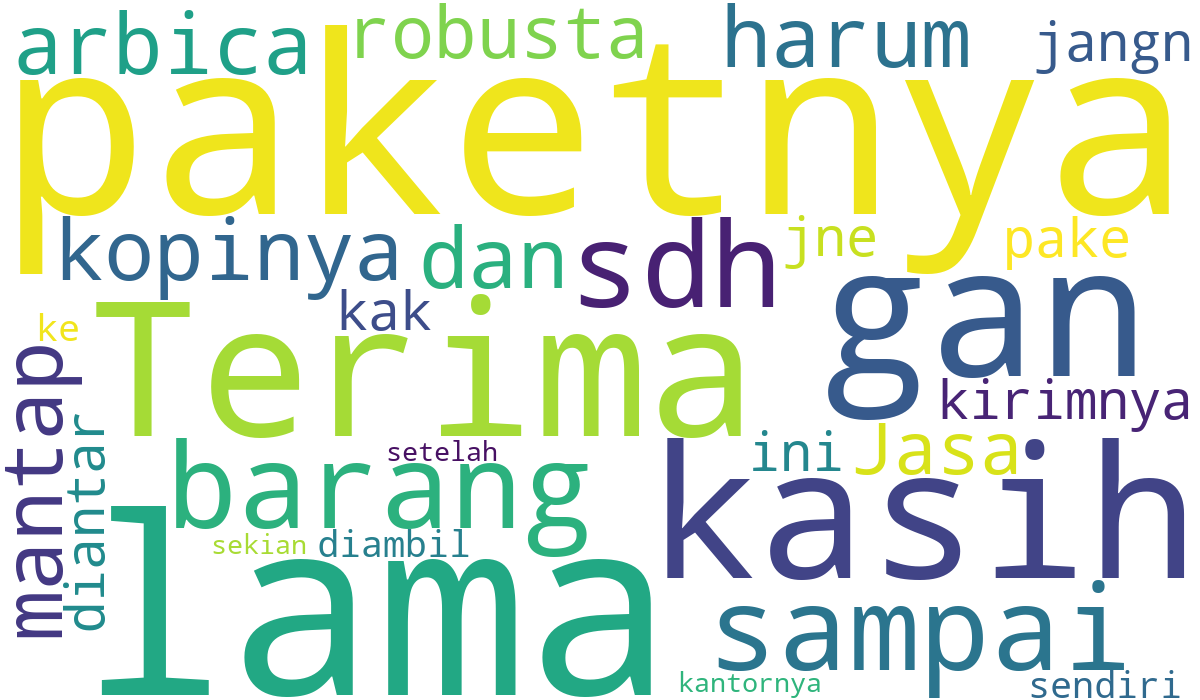
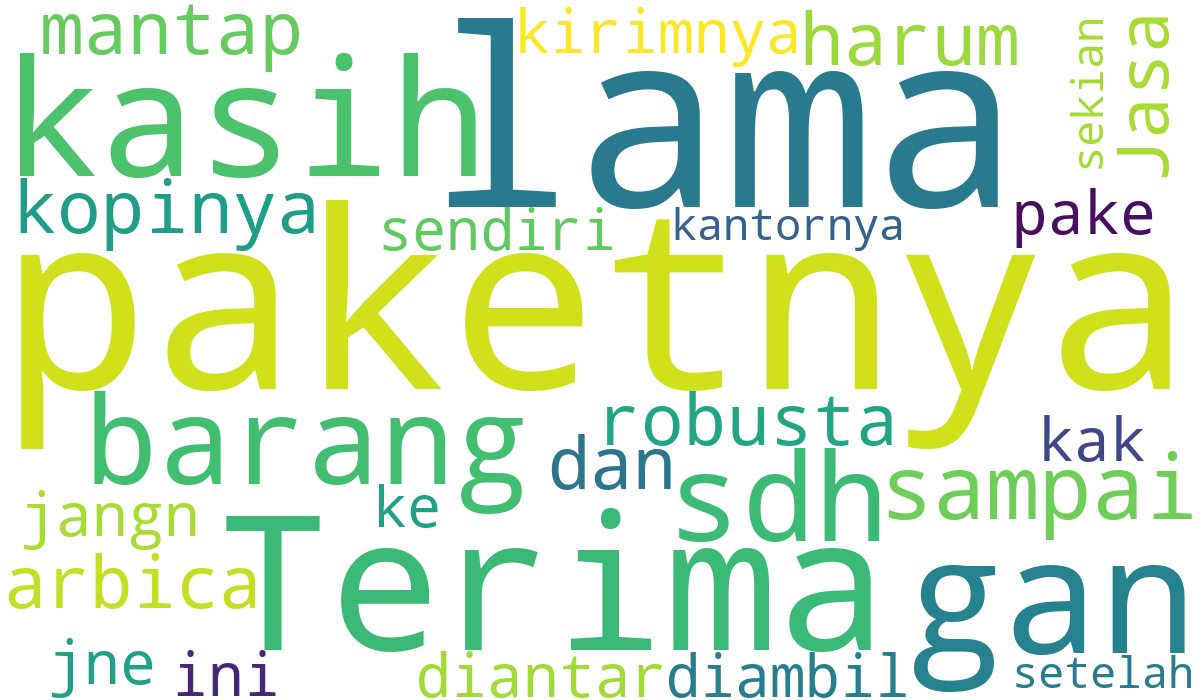
tambahkan netral

diff --git a/project/figures/ranking_weighted_rating.html b/project/figures/ranking_weighted_rating.html
@@ -2,6 +2,6 @@
 <head><meta charset="utf-8" /></head>
 <body>
     <div>                        <script>window.PlotlyConfig = {MathJaxConfig: 'local'};</script>
-        <script charset="utf-8" src="https://cdn.plot.ly/plotly-3.5.0.min.js" integrity="sha256-fHbNLP+GlIXN+efbQec78UkemUz3NJp7UmfGxC1tNxs=" crossorigin="anonymous"></script>                <div id="b3a620ee-9602-4492-b55e-e51f03487f10" class="plotly-graph-div" style="height:100%; width:100%;"></div>            <script>                window.PLOTLYENV=window.PLOTLYENV || {};                                if (document.getElementById("b3a620ee-9602-4492-b55e-e51f03487f10")) {                    Plotly.newPlot(                        "b3a620ee-9602-4492-b55e-e51f03487f10",                        [{"hovertemplate":"weighted_rating=%{x}\u003cbr\u003eproduct_name=%{y}\u003cbr\u003eavg_sentiment=%{marker.color}\u003cextra\u003e\u003c\u002fextra\u003e","legendgroup":"","marker":{"color":{"dtype":"f8","bdata":"gykqFazg7D+SJA1vdVzsP8pryGnpHew\u002ft20nH0ne7T9VVf2kZe\u002ftPwAAcD80lug\u002f0UUX1iGs7T8AAIDUIaztPwAAgNAhrO0\u002fjuOYltEF7j\u002fRXnoXpMLtP6uqWWB0xe0\u002fq6qq+xZU6z8AALoCeF3qP7BygNWCX+w\u002fAACA1CGs7T8q8pkkIOXtP\u002fWmNrj+7ew\u002fvvduTtBY7D\u002fYUN5rU5DtPw=="},"coloraxis":"coloraxis","pattern":{"shape":""}},"name":"","orientation":"h","showlegend":false,"textposition":"auto","x":{"dtype":"f8","bdata":"jxKUxW3TE0ARYKM2ZtMTQA3jSPnM0RNA1fQ6NNXQE0AZzSYVu88TQBnNJhW7zxNAL6gPBSnPE0AvqA8FKc8TQJ5SbHaTzhNAeHS\u002fSPrNE0AaJZrCv8wTQAviXnksyxNAC+JeeSzLE0Db3QE6FMoTQBR3MT0axxNAryYWHgjAE0Btgwuk3b4TQH79y2+HvBNAWbwOP3O8E0ACqOeqT7sTQA=="},"xaxis":"x","y":["Kopi Toraja Blend Arabika Robusta Gandangbatu Taracasta kemasan 500 gram","Kopi Arabika Toraja Benteng Kado Phiter Tulak 200 gram Kopi Terbaik Indonesia 2016 versi AEKI","Kopi Toraja Blend Arabika Robusta 1kg Gandangbatu Taracasta Biji Sangrai atau Kopi Bubuk","Kopi Toraja Arabika Peaberry Perindingan proses Full Wash 200 gram Bubuk atau Biji Kemasan oleh oleh kopi toraja","Kopi Toraja Natural Presso Full Arabika 100% kemasan baru 200 gram oleh oleh khas kopi toraja","Kopi Arabika Toraja Benteng Kado Phiter Tulak 1kg","Kopi Toraja Arabika Gandangbatu Espresso Based 1kg","Kopi Toraja Tanpa Ampas Gandanbatu Arabusta Blend Arabika Robusta dengan Filter Dripbag isi 4 pcs","Kopi Arabika Toraja Peaberry kemasan 200 gram","Kopi Toraja Natural Presso Full Arabika 100% kemasan baru 200 gram","Kopi Toraja Arabika Natural Carbonic Maceration 200 gram kopi arabika premium specialty oleh oleh khas kopi toraja","Kopi Toraja Arabika Natural Carbonic Maceration 200 gram kopi arabika premium specialty","Kopi Arabika Toraja Perindingan 1kg Bubuk atau Biji Specialty Coffee","Kopi Toraja Robusta 1kg Biji Sangrai atau Kopi Bubuk","Kopi Toraja Arabika Perindingan kemasan 200 gram Bubuk atau Biji Specialty Coffee","Kopi Toraja tanpa label Arabika Robusta Blend cocok untuk reseller dropshipper maupun brand sendiri Kemasan 500G","Kopi Toraja Arabika Natural Benteng Ambeso 200gram Bubuk atau Biji Specialty Coffee","Kopi Toraja Blend Arabika Robusta kemasan baru 200 gram oleh oleh khas sulawesi","Kopi Toraja Arabika Specialty Perindingan kemasan 200g kopi premium fresh roast oleh oleh khas sulawesi","Kopi Toraja Robusta kemasan 500 gram oleh oleh khas Toraja"],"yaxis":"y","type":"bar"}],                        {"template":{"data":{"histogram2dcontour":[{"type":"histogram2dcontour","colorbar":{"outlinewidth":0,"ticks":""},"colorscale":[[0.0,"#0d0887"],[0.1111111111111111,"#46039f"],[0.2222222222222222,"#7201a8"],[0.3333333333333333,"#9c179e"],[0.4444444444444444,"#bd3786"],[0.5555555555555556,"#d8576b"],[0.6666666666666666,"#ed7953"],[0.7777777777777778,"#fb9f3a"],[0.8888888888888888,"#fdca26"],[1.0,"#f0f921"]]}],"choropleth":[{"type":"choropleth","colorbar":{"outlinewidth":0,"ticks":""}}],"histogram2d":[{"type":"histogram2d","colorbar":{"outlinewidth":0,"ticks":""},"colorscale":[[0.0,"#0d0887"],[0.1111111111111111,"#46039f"],[0.2222222222222222,"#7201a8"],[0.3333333333333333,"#9c179e"],[0.4444444444444444,"#bd3786"],[0.5555555555555556,"#d8576b"],[0.6666666666666666,"#ed7953"],[0.7777777777777778,"#fb9f3a"],[0.8888888888888888,"#fdca26"],[1.0,"#f0f921"]]}],"heatmap":[{"type":"heatmap","colorbar":{"outlinewidth":0,"ticks":""},"colorscale":[[0.0,"#0d0887"],[0.1111111111111111,"#46039f"],[0.2222222222222222,"#7201a8"],[0.3333333333333333,"#9c179e"],[0.4444444444444444,"#bd3786"],[0.5555555555555556,"#d8576b"],[0.6666666666666666,"#ed7953"],[0.7777777777777778,"#fb9f3a"],[0.8888888888888888,"#fdca26"],[1.0,"#f0f921"]]}],"contourcarpet":[{"type":"contourcarpet","colorbar":{"outlinewidth":0,"ticks":""}}],"contour":[{"type":"contour","colorbar":{"outlinewidth":0,"ticks":""},"colorscale":[[0.0,"#0d0887"],[0.1111111111111111,"#46039f"],[0.2222222222222222,"#7201a8"],[0.3333333333333333,"#9c179e"],[0.4444444444444444,"#bd3786"],[0.5555555555555556,"#d8576b"],[0.6666666666666666,"#ed7953"],[0.7777777777777778,"#fb9f3a"],[0.8888888888888888,"#fdca26"],[1.0,"#f0f921"]]}],"surface":[{"type":"surface","colorbar":{"outlinewidth":0,"ticks":""},"colorscale":[[0.0,"#0d0887"],[0.1111111111111111,"#46039f"],[0.2222222222222222,"#7201a8"],[0.3333333333333333,"#9c179e"],[0.4444444444444444,"#bd3786"],[0.5555555555555556,"#d8576b"],[0.6666666666666666,"#ed7953"],[0.7777777777777778,"#fb9f3a"],[0.8888888888888888,"#fdca26"],[1.0,"#f0f921"]]}],"mesh3d":[{"type":"mesh3d","colorbar":{"outlinewidth":0,"ticks":""}}],"scatter":[{"fillpattern":{"fillmode":"overlay","size":10,"solidity":0.2},"type":"scatter"}],"parcoords":[{"type":"parcoords","line":{"colorbar":{"outlinewidth":0,"ticks":""}}}],"scatterpolargl":[{"type":"scatterpolargl","marker":{"colorbar":{"outlinewidth":0,"ticks":""}}}],"bar":[{"error_x":{"color":"#2a3f5f"},"error_y":{"color":"#2a3f5f"},"marker":{"line":{"color":"#E5ECF6","width":0.5},"pattern":{"fillmode":"overlay","size":10,"solidity":0.2}},"type":"bar"}],"scattergeo":[{"type":"scattergeo","marker":{"colorbar":{"outlinewidth":0,"ticks":""}}}],"scatterpolar":[{"type":"scatterpolar","marker":{"colorbar":{"outlinewidth":0,"ticks":""}}}],"histogram":[{"marker":{"pattern":{"fillmode":"overlay","size":10,"solidity":0.2}},"type":"histogram"}],"scattergl":[{"type":"scattergl","marker":{"colorbar":{"outlinewidth":0,"ticks":""}}}],"scatter3d":[{"type":"scatter3d","line":{"colorbar":{"outlinewidth":0,"ticks":""}},"marker":{"colorbar":{"outlinewidth":0,"ticks":""}}}],"scattermap":[{"type":"scattermap","marker":{"colorbar":{"outlinewidth":0,"ticks":""}}}],"scattermapbox":[{"type":"scattermapbox","marker":{"colorbar":{"outlinewidth":0,"ticks":""}}}],"scatterternary":[{"type":"scatterternary","marker":{"colorbar":{"outlinewidth":0,"ticks":""}}}],"scattercarpet":[{"type":"scattercarpet","marker":{"colorbar":{"outlinewidth":0,"ticks":""}}}],"carpet":[{"aaxis":{"endlinecolor":"#2a3f5f","gridcolor":"white","linecolor":"white","minorgridcolor":"white","startlinecolor":"#2a3f5f"},"baxis":{"endlinecolor":"#2a3f5f","gridcolor":"white","linecolor":"white","minorgridcolor":"white","startlinecolor":"#2a3f5f"},"type":"carpet"}],"table":[{"cells":{"fill":{"color":"#EBF0F8"},"line":{"color":"white"}},"header":{"fill":{"color":"#C8D4E3"},"line":{"color":"white"}},"type":"table"}],"barpolar":[{"marker":{"line":{"color":"#E5ECF6","width":0.5},"pattern":{"fillmode":"overlay","size":10,"solidity":0.2}},"type":"barpolar"}],"pie":[{"automargin":true,"type":"pie"}]},"layout":{"autotypenumbers":"strict","colorway":["#636efa","#EF553B","#00cc96","#ab63fa","#FFA15A","#19d3f3","#FF6692","#B6E880","#FF97FF","#FECB52"],"font":{"color":"#2a3f5f"},"hovermode":"closest","hoverlabel":{"align":"left"},"paper_bgcolor":"white","plot_bgcolor":"#E5ECF6","polar":{"bgcolor":"#E5ECF6","angularaxis":{"gridcolor":"white","linecolor":"white","ticks":""},"radialaxis":{"gridcolor":"white","linecolor":"white","ticks":""}},"ternary":{"bgcolor":"#E5ECF6","aaxis":{"gridcolor":"white","linecolor":"white","ticks":""},"baxis":{"gridcolor":"white","linecolor":"white","ticks":""},"caxis":{"gridcolor":"white","linecolor":"white","ticks":""}},"coloraxis":{"colorbar":{"outlinewidth":0,"ticks":""}},"colorscale":{"sequential":[[0.0,"#0d0887"],[0.1111111111111111,"#46039f"],[0.2222222222222222,"#7201a8"],[0.3333333333333333,"#9c179e"],[0.4444444444444444,"#bd3786"],[0.5555555555555556,"#d8576b"],[0.6666666666666666,"#ed7953"],[0.7777777777777778,"#fb9f3a"],[0.8888888888888888,"#fdca26"],[1.0,"#f0f921"]],"sequentialminus":[[0.0,"#0d0887"],[0.1111111111111111,"#46039f"],[0.2222222222222222,"#7201a8"],[0.3333333333333333,"#9c179e"],[0.4444444444444444,"#bd3786"],[0.5555555555555556,"#d8576b"],[0.6666666666666666,"#ed7953"],[0.7777777777777778,"#fb9f3a"],[0.8888888888888888,"#fdca26"],[1.0,"#f0f921"]],"diverging":[[0,"#8e0152"],[0.1,"#c51b7d"],[0.2,"#de77ae"],[0.3,"#f1b6da"],[0.4,"#fde0ef"],[0.5,"#f7f7f7"],[0.6,"#e6f5d0"],[0.7,"#b8e186"],[0.8,"#7fbc41"],[0.9,"#4d9221"],[1,"#276419"]]},"xaxis":{"gridcolor":"white","linecolor":"white","ticks":"","title":{"standoff":15},"zerolinecolor":"white","automargin":true,"zerolinewidth":2},"yaxis":{"gridcolor":"white","linecolor":"white","ticks":"","title":{"standoff":15},"zerolinecolor":"white","automargin":true,"zerolinewidth":2},"scene":{"xaxis":{"backgroundcolor":"#E5ECF6","gridcolor":"white","linecolor":"white","showbackground":true,"ticks":"","zerolinecolor":"white","gridwidth":2},"yaxis":{"backgroundcolor":"#E5ECF6","gridcolor":"white","linecolor":"white","showbackground":true,"ticks":"","zerolinecolor":"white","gridwidth":2},"zaxis":{"backgroundcolor":"#E5ECF6","gridcolor":"white","linecolor":"white","showbackground":true,"ticks":"","zerolinecolor":"white","gridwidth":2}},"shapedefaults":{"line":{"color":"#2a3f5f"}},"annotationdefaults":{"arrowcolor":"#2a3f5f","arrowhead":0,"arrowwidth":1},"geo":{"bgcolor":"white","landcolor":"#E5ECF6","subunitcolor":"white","showland":true,"showlakes":true,"lakecolor":"white"},"title":{"x":0.05},"mapbox":{"style":"light"}}},"xaxis":{"anchor":"y","domain":[0.0,1.0],"title":{"text":"weighted_rating"}},"yaxis":{"anchor":"x","domain":[0.0,1.0],"title":{"text":"product_name"}},"coloraxis":{"colorbar":{"title":{"text":"avg_sentiment"}},"colorscale":[[0.0,"rgb(176, 242, 188)"],[0.16666666666666666,"rgb(137, 232, 172)"],[0.3333333333333333,"rgb(103, 219, 165)"],[0.5,"rgb(76, 200, 163)"],[0.6666666666666666,"rgb(56, 178, 163)"],[0.8333333333333334,"rgb(44, 152, 160)"],[1.0,"rgb(37, 125, 152)"]]},"legend":{"tracegroupgap":0},"title":{"text":"Top Products by Weighted Rating"},"barmode":"relative"},                        {"responsive": true}                    )                };            </script>        </div>
+        <script charset="utf-8" src="https://cdn.plot.ly/plotly-3.5.0.min.js" integrity="sha256-fHbNLP+GlIXN+efbQec78UkemUz3NJp7UmfGxC1tNxs=" crossorigin="anonymous"></script>                <div id="bc3f4cc6-b3e4-4a29-8c7e-a544f2ba49c3" class="plotly-graph-div" style="height:100%; width:100%;"></div>            <script>                window.PLOTLYENV=window.PLOTLYENV || {};                                if (document.getElementById("bc3f4cc6-b3e4-4a29-8c7e-a544f2ba49c3")) {                    Plotly.newPlot(                        "bc3f4cc6-b3e4-4a29-8c7e-a544f2ba49c3",                        [{"hovertemplate":"weighted_rating=%{x}\u003cbr\u003eproduct_name=%{y}\u003cbr\u003eavg_sentiment=%{marker.color}\u003cextra\u003e\u003c\u002fextra\u003e","legendgroup":"","marker":{"color":{"dtype":"f8","bdata":"gykqFazg7D+SJA1vdVzsP8pryGnpHew\u002ft20nH0ne7T9VVf2kZe\u002ftPwAAcD80lug\u002f0UUX1iGs7T8AAIDUIaztPwAAgNAhrO0\u002fjuOYltEF7j\u002fRXnoXpMLtP6uqWWB0xe0\u002fq6qq+xZU6z8AALoCeF3qP7BygNWCX+w\u002fAACA1CGs7T8q8pkkIOXtP\u002fWmNrj+7ew\u002fvvduTtBY7D\u002fYUN5rU5DtPw=="},"coloraxis":"coloraxis","pattern":{"shape":""}},"name":"","orientation":"h","showlegend":false,"textposition":"auto","x":{"dtype":"f8","bdata":"jxKUxW3TE0ARYKM2ZtMTQA3jSPnM0RNA1fQ6NNXQE0AZzSYVu88TQBnNJhW7zxNAL6gPBSnPE0AvqA8FKc8TQJ5SbHaTzhNAeHS\u002fSPrNE0AaJZrCv8wTQAviXnksyxNAC+JeeSzLE0Db3QE6FMoTQBR3MT0axxNAryYWHgjAE0Btgwuk3b4TQH79y2+HvBNAWbwOP3O8E0ACqOeqT7sTQA=="},"xaxis":"x","y":["Kopi Toraja Blend Arabika Robusta Gandangbatu Taracasta kemasan 500 gram","Kopi Arabika Toraja Benteng Kado Phiter Tulak 200 gram Kopi Terbaik Indonesia 2016 versi AEKI","Kopi Toraja Blend Arabika Robusta 1kg Gandangbatu Taracasta Biji Sangrai atau Kopi Bubuk","Kopi Toraja Arabika Peaberry Perindingan proses Full Wash 200 gram Bubuk atau Biji Kemasan oleh oleh kopi toraja","Kopi Toraja Natural Presso Full Arabika 100% kemasan baru 200 gram oleh oleh khas kopi toraja","Kopi Arabika Toraja Benteng Kado Phiter Tulak 1kg","Kopi Toraja Arabika Gandangbatu Espresso Based 1kg","Kopi Toraja Tanpa Ampas Gandanbatu Arabusta Blend Arabika Robusta dengan Filter Dripbag isi 4 pcs","Kopi Arabika Toraja Peaberry kemasan 200 gram","Kopi Toraja Natural Presso Full Arabika 100% kemasan baru 200 gram","Kopi Toraja Arabika Natural Carbonic Maceration 200 gram kopi arabika premium specialty oleh oleh khas kopi toraja","Kopi Toraja Arabika Natural Carbonic Maceration 200 gram kopi arabika premium specialty","Kopi Arabika Toraja Perindingan 1kg Bubuk atau Biji Specialty Coffee","Kopi Toraja Robusta 1kg Biji Sangrai atau Kopi Bubuk","Kopi Toraja Arabika Perindingan kemasan 200 gram Bubuk atau Biji Specialty Coffee","Kopi Toraja tanpa label Arabika Robusta Blend cocok untuk reseller dropshipper maupun brand sendiri Kemasan 500G","Kopi Toraja Arabika Natural Benteng Ambeso 200gram Bubuk atau Biji Specialty Coffee","Kopi Toraja Blend Arabika Robusta kemasan baru 200 gram oleh oleh khas sulawesi","Kopi Toraja Arabika Specialty Perindingan kemasan 200g kopi premium fresh roast oleh oleh khas sulawesi","Kopi Toraja Robusta kemasan 500 gram oleh oleh khas Toraja"],"yaxis":"y","type":"bar"}],                        {"template":{"data":{"histogram2dcontour":[{"type":"histogram2dcontour","colorbar":{"outlinewidth":0,"ticks":""},"colorscale":[[0.0,"#0d0887"],[0.1111111111111111,"#46039f"],[0.2222222222222222,"#7201a8"],[0.3333333333333333,"#9c179e"],[0.4444444444444444,"#bd3786"],[0.5555555555555556,"#d8576b"],[0.6666666666666666,"#ed7953"],[0.7777777777777778,"#fb9f3a"],[0.8888888888888888,"#fdca26"],[1.0,"#f0f921"]]}],"choropleth":[{"type":"choropleth","colorbar":{"outlinewidth":0,"ticks":""}}],"histogram2d":[{"type":"histogram2d","colorbar":{"outlinewidth":0,"ticks":""},"colorscale":[[0.0,"#0d0887"],[0.1111111111111111,"#46039f"],[0.2222222222222222,"#7201a8"],[0.3333333333333333,"#9c179e"],[0.4444444444444444,"#bd3786"],[0.5555555555555556,"#d8576b"],[0.6666666666666666,"#ed7953"],[0.7777777777777778,"#fb9f3a"],[0.8888888888888888,"#fdca26"],[1.0,"#f0f921"]]}],"heatmap":[{"type":"heatmap","colorbar":{"outlinewidth":0,"ticks":""},"colorscale":[[0.0,"#0d0887"],[0.1111111111111111,"#46039f"],[0.2222222222222222,"#7201a8"],[0.3333333333333333,"#9c179e"],[0.4444444444444444,"#bd3786"],[0.5555555555555556,"#d8576b"],[0.6666666666666666,"#ed7953"],[0.7777777777777778,"#fb9f3a"],[0.8888888888888888,"#fdca26"],[1.0,"#f0f921"]]}],"contourcarpet":[{"type":"contourcarpet","colorbar":{"outlinewidth":0,"ticks":""}}],"contour":[{"type":"contour","colorbar":{"outlinewidth":0,"ticks":""},"colorscale":[[0.0,"#0d0887"],[0.1111111111111111,"#46039f"],[0.2222222222222222,"#7201a8"],[0.3333333333333333,"#9c179e"],[0.4444444444444444,"#bd3786"],[0.5555555555555556,"#d8576b"],[0.6666666666666666,"#ed7953"],[0.7777777777777778,"#fb9f3a"],[0.8888888888888888,"#fdca26"],[1.0,"#f0f921"]]}],"surface":[{"type":"surface","colorbar":{"outlinewidth":0,"ticks":""},"colorscale":[[0.0,"#0d0887"],[0.1111111111111111,"#46039f"],[0.2222222222222222,"#7201a8"],[0.3333333333333333,"#9c179e"],[0.4444444444444444,"#bd3786"],[0.5555555555555556,"#d8576b"],[0.6666666666666666,"#ed7953"],[0.7777777777777778,"#fb9f3a"],[0.8888888888888888,"#fdca26"],[1.0,"#f0f921"]]}],"mesh3d":[{"type":"mesh3d","colorbar":{"outlinewidth":0,"ticks":""}}],"scatter":[{"fillpattern":{"fillmode":"overlay","size":10,"solidity":0.2},"type":"scatter"}],"parcoords":[{"type":"parcoords","line":{"colorbar":{"outlinewidth":0,"ticks":""}}}],"scatterpolargl":[{"type":"scatterpolargl","marker":{"colorbar":{"outlinewidth":0,"ticks":""}}}],"bar":[{"error_x":{"color":"#2a3f5f"},"error_y":{"color":"#2a3f5f"},"marker":{"line":{"color":"#E5ECF6","width":0.5},"pattern":{"fillmode":"overlay","size":10,"solidity":0.2}},"type":"bar"}],"scattergeo":[{"type":"scattergeo","marker":{"colorbar":{"outlinewidth":0,"ticks":""}}}],"scatterpolar":[{"type":"scatterpolar","marker":{"colorbar":{"outlinewidth":0,"ticks":""}}}],"histogram":[{"marker":{"pattern":{"fillmode":"overlay","size":10,"solidity":0.2}},"type":"histogram"}],"scattergl":[{"type":"scattergl","marker":{"colorbar":{"outlinewidth":0,"ticks":""}}}],"scatter3d":[{"type":"scatter3d","line":{"colorbar":{"outlinewidth":0,"ticks":""}},"marker":{"colorbar":{"outlinewidth":0,"ticks":""}}}],"scattermap":[{"type":"scattermap","marker":{"colorbar":{"outlinewidth":0,"ticks":""}}}],"scattermapbox":[{"type":"scattermapbox","marker":{"colorbar":{"outlinewidth":0,"ticks":""}}}],"scatterternary":[{"type":"scatterternary","marker":{"colorbar":{"outlinewidth":0,"ticks":""}}}],"scattercarpet":[{"type":"scattercarpet","marker":{"colorbar":{"outlinewidth":0,"ticks":""}}}],"carpet":[{"aaxis":{"endlinecolor":"#2a3f5f","gridcolor":"white","linecolor":"white","minorgridcolor":"white","startlinecolor":"#2a3f5f"},"baxis":{"endlinecolor":"#2a3f5f","gridcolor":"white","linecolor":"white","minorgridcolor":"white","startlinecolor":"#2a3f5f"},"type":"carpet"}],"table":[{"cells":{"fill":{"color":"#EBF0F8"},"line":{"color":"white"}},"header":{"fill":{"color":"#C8D4E3"},"line":{"color":"white"}},"type":"table"}],"barpolar":[{"marker":{"line":{"color":"#E5ECF6","width":0.5},"pattern":{"fillmode":"overlay","size":10,"solidity":0.2}},"type":"barpolar"}],"pie":[{"automargin":true,"type":"pie"}]},"layout":{"autotypenumbers":"strict","colorway":["#636efa","#EF553B","#00cc96","#ab63fa","#FFA15A","#19d3f3","#FF6692","#B6E880","#FF97FF","#FECB52"],"font":{"color":"#2a3f5f"},"hovermode":"closest","hoverlabel":{"align":"left"},"paper_bgcolor":"white","plot_bgcolor":"#E5ECF6","polar":{"bgcolor":"#E5ECF6","angularaxis":{"gridcolor":"white","linecolor":"white","ticks":""},"radialaxis":{"gridcolor":"white","linecolor":"white","ticks":""}},"ternary":{"bgcolor":"#E5ECF6","aaxis":{"gridcolor":"white","linecolor":"white","ticks":""},"baxis":{"gridcolor":"white","linecolor":"white","ticks":""},"caxis":{"gridcolor":"white","linecolor":"white","ticks":""}},"coloraxis":{"colorbar":{"outlinewidth":0,"ticks":""}},"colorscale":{"sequential":[[0.0,"#0d0887"],[0.1111111111111111,"#46039f"],[0.2222222222222222,"#7201a8"],[0.3333333333333333,"#9c179e"],[0.4444444444444444,"#bd3786"],[0.5555555555555556,"#d8576b"],[0.6666666666666666,"#ed7953"],[0.7777777777777778,"#fb9f3a"],[0.8888888888888888,"#fdca26"],[1.0,"#f0f921"]],"sequentialminus":[[0.0,"#0d0887"],[0.1111111111111111,"#46039f"],[0.2222222222222222,"#7201a8"],[0.3333333333333333,"#9c179e"],[0.4444444444444444,"#bd3786"],[0.5555555555555556,"#d8576b"],[0.6666666666666666,"#ed7953"],[0.7777777777777778,"#fb9f3a"],[0.8888888888888888,"#fdca26"],[1.0,"#f0f921"]],"diverging":[[0,"#8e0152"],[0.1,"#c51b7d"],[0.2,"#de77ae"],[0.3,"#f1b6da"],[0.4,"#fde0ef"],[0.5,"#f7f7f7"],[0.6,"#e6f5d0"],[0.7,"#b8e186"],[0.8,"#7fbc41"],[0.9,"#4d9221"],[1,"#276419"]]},"xaxis":{"gridcolor":"white","linecolor":"white","ticks":"","title":{"standoff":15},"zerolinecolor":"white","automargin":true,"zerolinewidth":2},"yaxis":{"gridcolor":"white","linecolor":"white","ticks":"","title":{"standoff":15},"zerolinecolor":"white","automargin":true,"zerolinewidth":2},"scene":{"xaxis":{"backgroundcolor":"#E5ECF6","gridcolor":"white","linecolor":"white","showbackground":true,"ticks":"","zerolinecolor":"white","gridwidth":2},"yaxis":{"backgroundcolor":"#E5ECF6","gridcolor":"white","linecolor":"white","showbackground":true,"ticks":"","zerolinecolor":"white","gridwidth":2},"zaxis":{"backgroundcolor":"#E5ECF6","gridcolor":"white","linecolor":"white","showbackground":true,"ticks":"","zerolinecolor":"white","gridwidth":2}},"shapedefaults":{"line":{"color":"#2a3f5f"}},"annotationdefaults":{"arrowcolor":"#2a3f5f","arrowhead":0,"arrowwidth":1},"geo":{"bgcolor":"white","landcolor":"#E5ECF6","subunitcolor":"white","showland":true,"showlakes":true,"lakecolor":"white"},"title":{"x":0.05},"mapbox":{"style":"light"}}},"xaxis":{"anchor":"y","domain":[0.0,1.0],"title":{"text":"weighted_rating"}},"yaxis":{"anchor":"x","domain":[0.0,1.0],"title":{"text":"product_name"}},"coloraxis":{"colorbar":{"title":{"text":"avg_sentiment"}},"colorscale":[[0.0,"rgb(176, 242, 188)"],[0.16666666666666666,"rgb(137, 232, 172)"],[0.3333333333333333,"rgb(103, 219, 165)"],[0.5,"rgb(76, 200, 163)"],[0.6666666666666666,"rgb(56, 178, 163)"],[0.8333333333333334,"rgb(44, 152, 160)"],[1.0,"rgb(37, 125, 152)"]]},"legend":{"tracegroupgap":0},"title":{"text":"Top Products by Weighted Rating"},"barmode":"relative"},                        {"responsive": true}                    )                };            </script>        </div>
 </body>
 </html>

diff --git a/project/figures/trend_reviews.html b/project/figures/trend_reviews.html
@@ -2,6 +2,6 @@
 <head><meta charset="utf-8" /></head>
 <body>
     <div>                        <script>window.PlotlyConfig = {MathJaxConfig: 'local'};</script>
[2 lines of base64/hex data omitted]
 </body>
 </html>

diff --git a/project/dashboard_app.py b/project/dashboard_app.py
@@ -193,11 +193,14 @@ def main():
 
             wc_pos_text = sanitize_wordcloud_text(wc_df.loc[wc_df["sentiment_label"] == "positive", "comment_clean"])
             wc_neg_text = sanitize_wordcloud_text(wc_df.loc[wc_df["sentiment_label"] == "negative", "comment_clean"])
+            wc_neu_text = sanitize_wordcloud_text(wc_df.loc[wc_df["sentiment_label"] == "neutral", "comment_clean"])
 
-            w1, w2 = st.columns(2)
-            with w1:
+            c1, c2, c3 = st.columns(3)
+            with c1:
                 render_wordcloud(wc_pos_text, f"Wordcloud Positif - {wc_title_suffix}")
-            with w2:
+            with c2:
+                render_wordcloud(wc_neu_text, f"Wordcloud Netral - {wc_title_suffix}")
+            with c3:
                 render_wordcloud(wc_neg_text, f"Wordcloud Negatif - {wc_title_suffix}")
 
             st.subheader("Ranking Produk")
